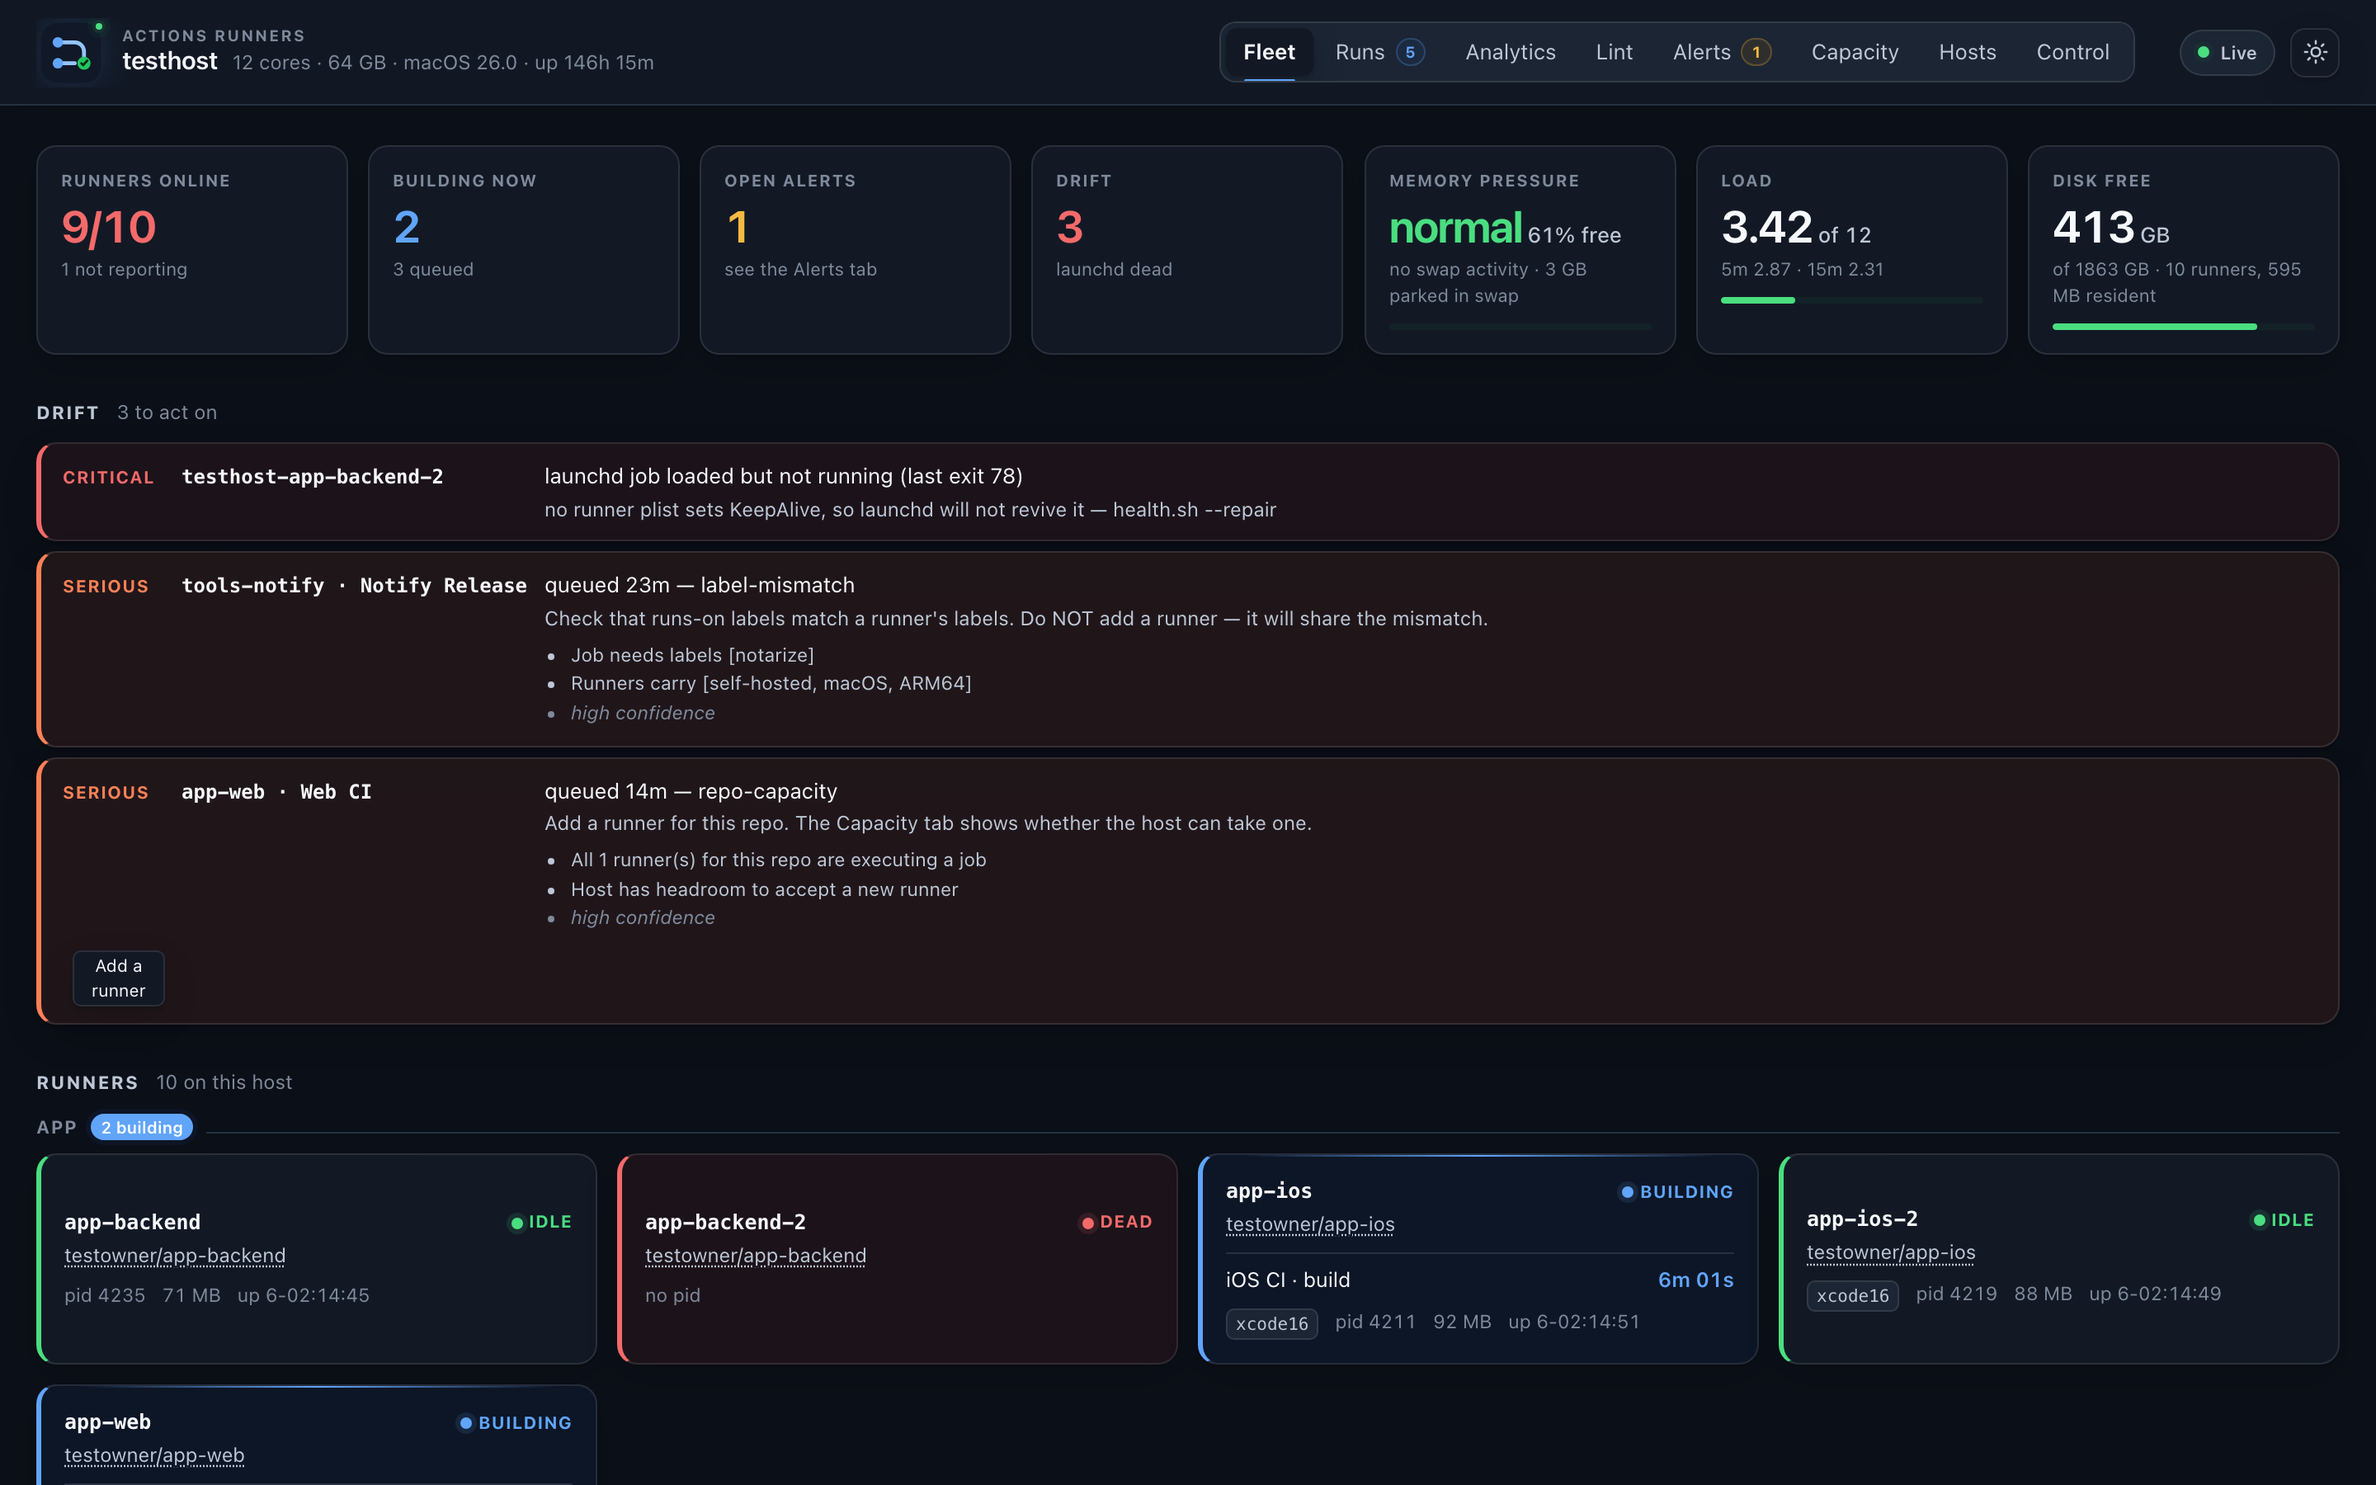
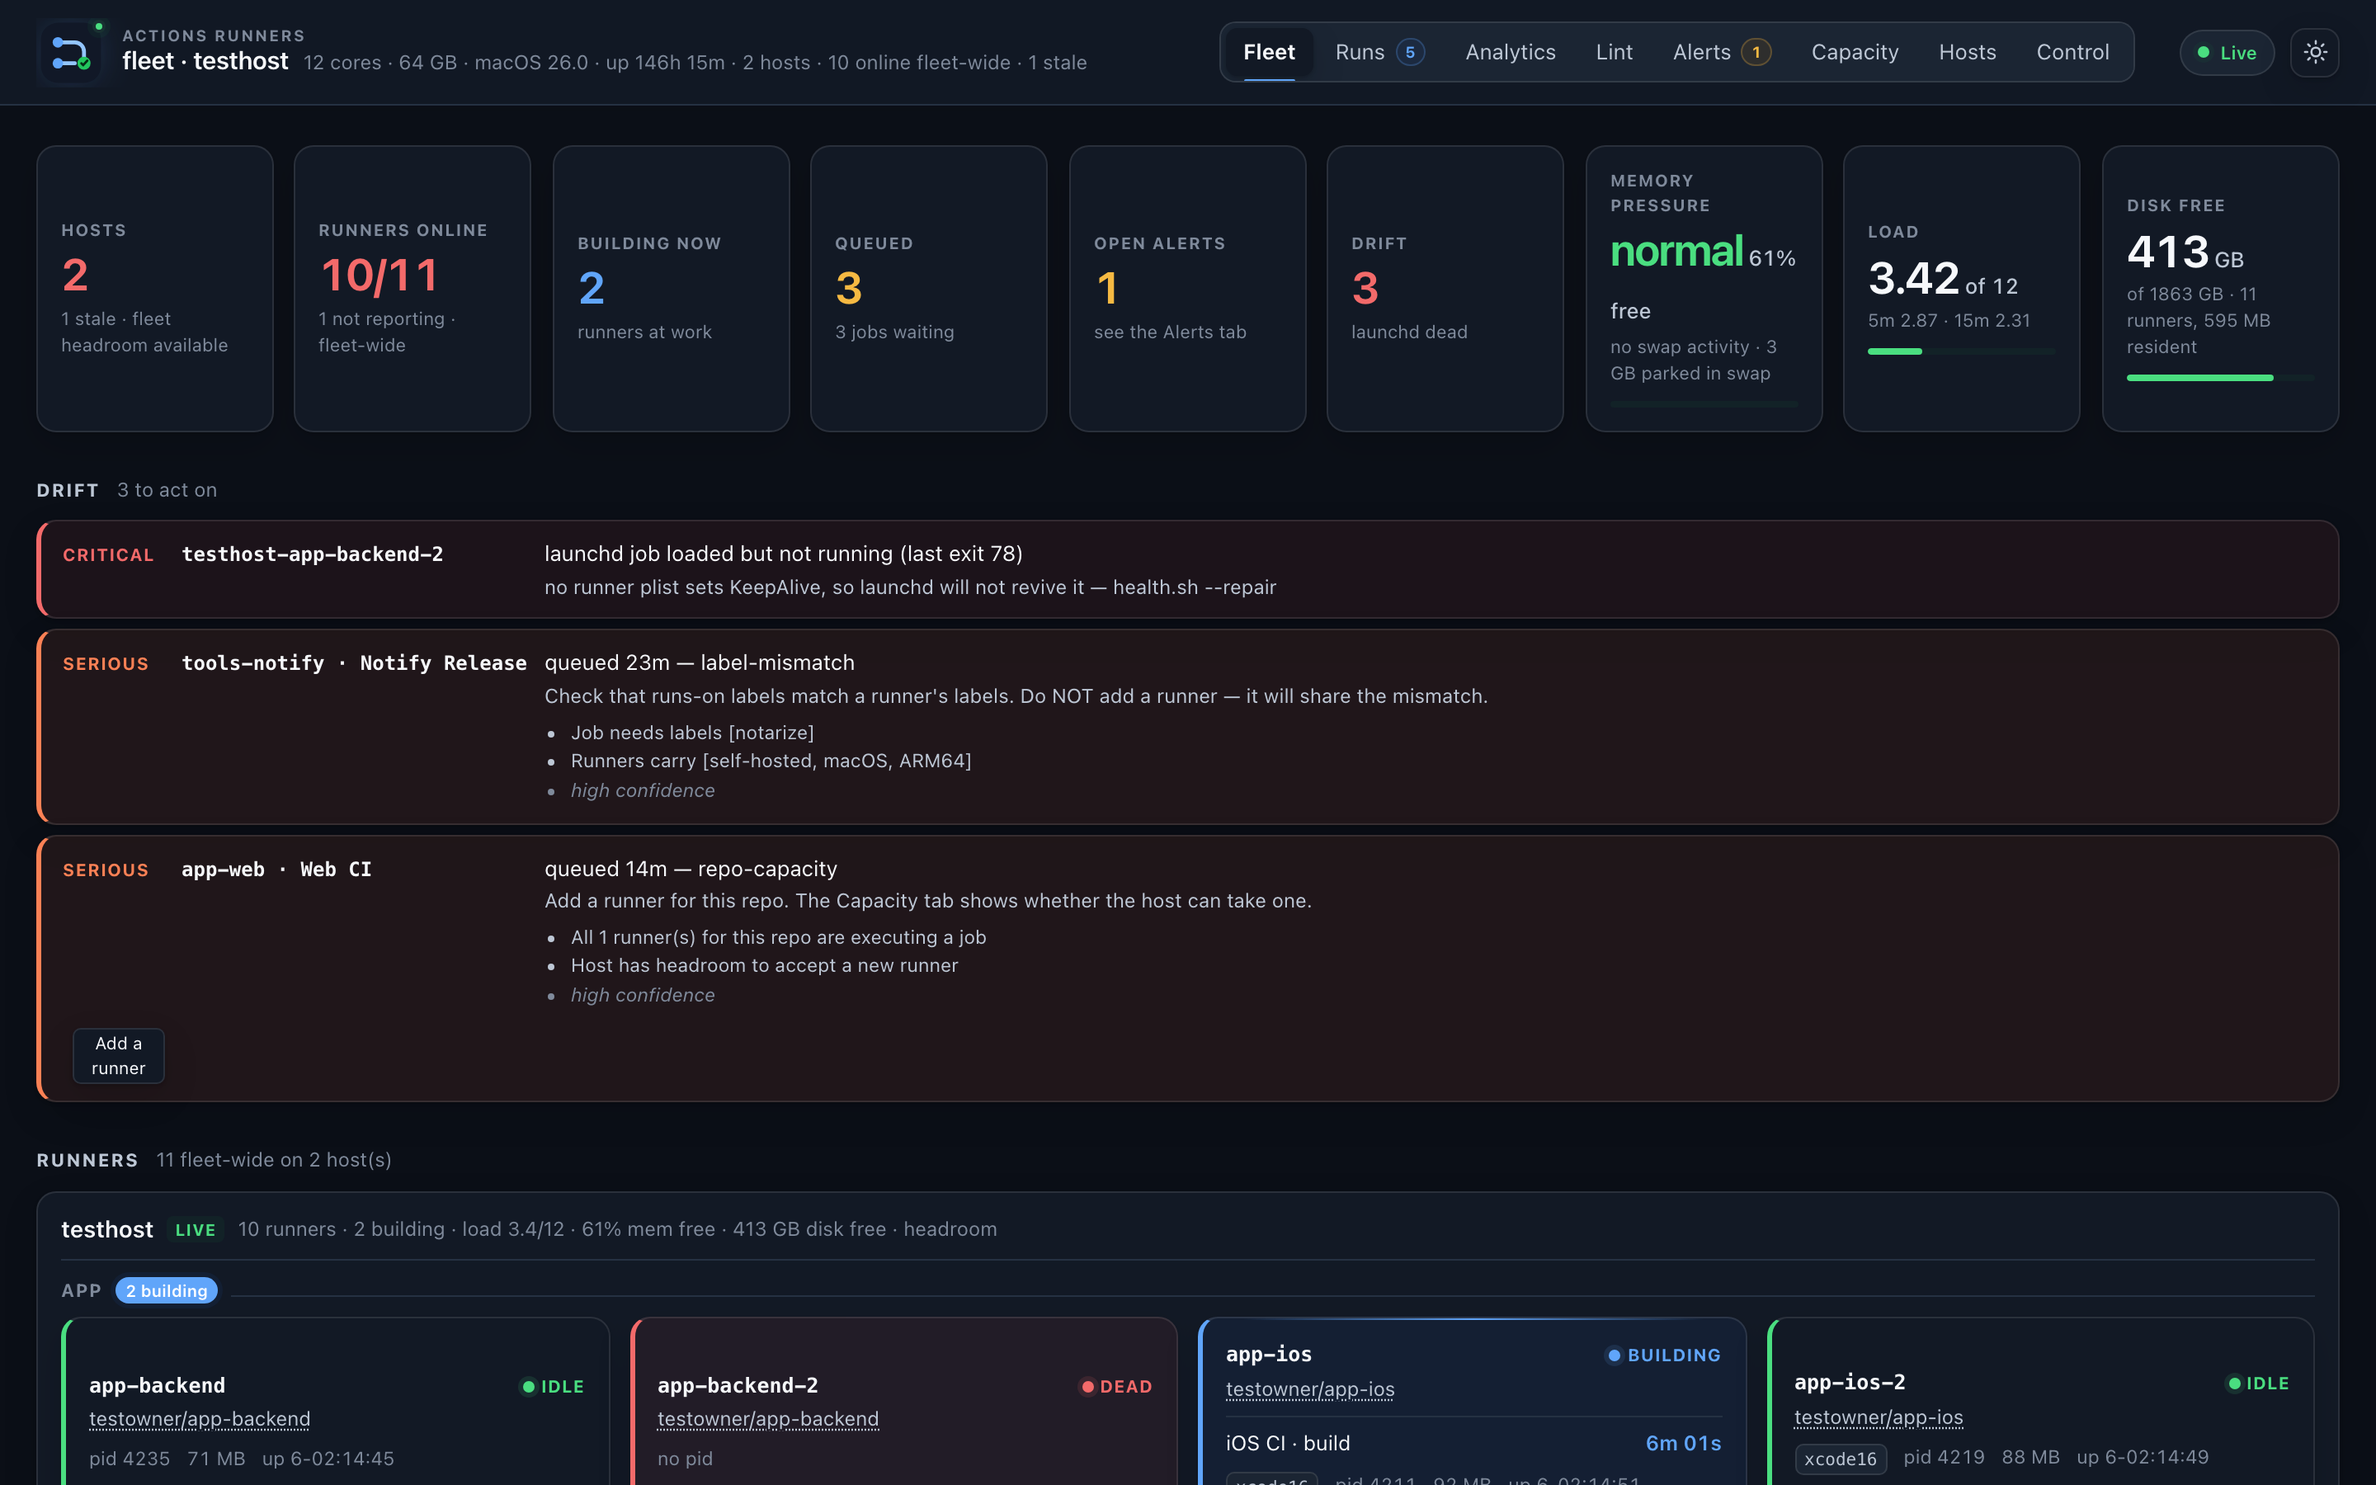
dashboard: Hosts tile replaces the federation strip; Fleet grid renders on a multi-host fleet (#69)
projectGroups() passed a snapshot it never received to runnerTile(), so every
federated render of the Fleet tab threw `s is not defined` before the host
blocks mounted. It now takes the snapshot. The Hosts KPI tile replaces the
federation strip, with docs, fixture and screenshot updated.

These edits were made on runner-host's checkout on 2026-10-09 (14:01-14:03
EDT) and never committed; carried over here so the host can deploy main.

diff --git a/dashboard/public/app.js b/dashboard/public/app.js
@@ -422,53 +422,6 @@ function remediationSection() {
 
 // ------------------------------------------------------------------- header
 
-function renderFederationSummary(s) {
-  const el = $('#federation-summary');
-  if (!el) return;
-  const fed = s.federation;
-  const controlPlane = s.control;
-  if (!fed?.enabled && !controlPlane?.enabled) {
-    el.classList.add('is-hidden');
-    el.setAttribute('aria-hidden', 'true');
-    mount(el);
-    return;
-  }
-  el.classList.remove('is-hidden');
-  el.setAttribute('aria-hidden', 'false');
-  const fleet = fed ?? {
-    totalHosts: 1, runnersOnline: (s.runners ?? []).filter((r) => r.ghStatus === 'online').length,
-    runnersBusy: (s.runners ?? []).filter((r) => r.ghBusy || r.workingLocally).length,
-    fleetCapacityOk: s.capacity?.ok, staleHosts: 0,
-  };
-  const cap = fleet.fleetCapacityOk ? 'fleet headroom available' : 'no fleet headroom now';
-  mount(el,
-    h('div', { class: 'federation-summary-inner', role: 'status' },
-      h('span', { class: 'fed-count', text: `${fleet.totalHosts} hosts` }),
-      controlPlane?.enabled
-        ? h('span', {
-            class: `flag ${controlPlane.role === 'leader' ? 'good' : 'warning'}`,
-            text: `${controlPlane.role} · ${controlPlane.replicaId}`,
-          })
-        : null,
-      h('span', { class: 'fed-sep', 'aria-hidden': 'true', text: '·' }),
-      h('span', { class: 'fed-count', text: `${fleet.runnersOnline} runners online` }),
-      h('span', { class: 'fed-sep', 'aria-hidden': 'true', text: '·' }),
-      h('span', { class: 'fed-count', text: `${fleet.runnersBusy} building` }),
-      h('span', { class: 'fed-sep', 'aria-hidden': 'true', text: '·' }),
-      h('span', { class: `fed-cap ${fleet.fleetCapacityOk ? 'good' : 'warn'}`, text: cap }),
-      fleet.staleHosts
-        ? h('span', { class: 'fed-stale flag critical', text: `${fleet.staleHosts} stale host${fleet.staleHosts === 1 ? '' : 's'}` })
-        : null,
-      h('button', {
-        class: 'btn tiny',
-        text: 'Hosts',
-        'aria-label': 'Open the Hosts tab for federation details',
-        onclick: () => setView('hosts'),
-      })
-    )
-  );
-}
-
 // Access banner — shown to non-local viewers until they have a device token
 function renderAccessBanner() {
   const existing = $('#access-banner');
@@ -520,6 +473,7 @@ function renderHeader(s) {
     parts.push(`${fed.totalHosts} host${fed.totalHosts === 1 ? '' : 's'} · ${fed.runnersOnline} online fleet-wide`);
     if (fed.staleHosts) parts.push(`${fed.staleHosts} stale`);
   }
+  if (s.control?.enabled) parts.push(`${s.control.role} · ${s.control.replicaId}`);
   $('#host-meta').textContent = parts.join(' · ');
 
   const badge = (selector, count, label) => {
@@ -567,7 +521,22 @@ function renderKpis(s) {
   const diskFrac = host.diskTotalGb ? 1 - host.diskFreeGb / host.diskTotalGb : 0;
   const loadFrac = host.cores ? host.load1 / host.cores : 0;
 
+  const showHosts = federated || Boolean(s.control?.enabled);
+  const totalHosts = s.federation?.totalHosts ?? 1;
+  const staleHosts = s.federation?.staleHosts ?? 0;
+  const fleetCapacityOk = s.federation?.fleetCapacityOk ?? s.capacity?.ok;
+
   mount($('#kpis'),
+    showHosts
+      ? statTile({
+          label: 'Hosts',
+          value: totalHosts,
+          sub: `${staleHosts ? `${staleHosts} stale` : 'all reporting'} · `
+            + (fleetCapacityOk ? 'fleet headroom available' : 'no fleet headroom now'),
+          tone: staleHosts ? 'critical' : fleetCapacityOk ? 'good' : 'warning',
+          onclick: kpiNav('hosts'),
+        })
+      : null,
     statTile({
       label: 'Runners online',
       value: allUnread ? '—' : registered.length ? `${online}/${registered.length}` : '—',
@@ -770,7 +739,7 @@ function runnerTile(s, r, { showHost = false } = {}) {
   );
 }
 
-function projectGroups(runners, order) {
+function projectGroups(s, runners, order) {
   const groups = new Map();
   for (const r of runners) {
     const project = r.project ?? 'other';
@@ -824,7 +793,7 @@ function hostSection(s, hostId, hostInfo, runners, summaries) {
       : null
   );
   return h('section', { class: 'host-block', id: `host-${hostId}` }, head,
-    ...projectGroups(runners, s.projects ?? ['other']));
+    ...projectGroups(s, runners, s.projects ?? ['other']));
 }
 
 // The fleet verdict (lib/verdict.js): one sentence and one next move, above
@@ -1578,7 +1547,6 @@ function render() {
   updateConnectionIndicator();
   renderHeader(snap);
   renderVerdictBanner(snap);
-  renderFederationSummary(snap);
   // The live KPI row and drift list belong to the operational tabs. Analytics
   // brings its own KPIs for the selected window; showing both stacks two
   // different meanings of "runs" on one screen.

diff --git a/dashboard/public/style.css b/dashboard/public/style.css
@@ -285,7 +285,7 @@ section { margin-bottom: 26px; }
 
 .kpis {
   display: grid; gap: 12px;
-  grid-template-columns: repeat(auto-fit, minmax(156px, 1fr));
+  grid-template-columns: repeat(auto-fit, minmax(132px, 1fr));
 }
 .kpi {
   position: relative; overflow: hidden;
@@ -319,6 +319,8 @@ button.kpi {
 .kpi:nth-child(5) { --enter-delay: 140ms; }
 .kpi:nth-child(6) { --enter-delay: 175ms; }
 .kpi:nth-child(7) { --enter-delay: 210ms; }
+.kpi:nth-child(8) { --enter-delay: 245ms; }
+.kpi:nth-child(9) { --enter-delay: 280ms; }
 .kpis.is-first-paint .kpi {
   animation: tile-enter 360ms cubic-bezier(.2, .7, .2, 1) both;
   animation-delay: var(--enter-delay, 0ms);
@@ -492,21 +494,6 @@ button.kpi {
 
 /* Hosts view. A stale host is dimmed and struck through at the name, because the
    one mistake this view must not allow is reading old state as current. */
-.federation-summary {
-  margin: 0 22px; padding: 8px 12px;
-  border: 1px solid var(--border); border-radius: var(--radius);
-  background: var(--surface-glass);
-}
-.federation-summary.is-hidden { display: none; }
-.federation-summary-inner {
-  display: flex; align-items: center; flex-wrap: wrap; gap: 8px 10px;
-  font-size: 12.5px;
-}
-.federation-summary .fed-sep { color: var(--muted); }
-.federation-summary .fed-cap.good { color: var(--good); font-weight: 600; }
-.federation-summary .fed-cap.warn { color: var(--warning); font-weight: 600; }
-.federation-summary .fed-stale { margin-left: auto; }
-
 .host-block {
   margin-bottom: 18px; padding: 12px 14px 4px;
   border: 1px solid var(--border); border-radius: var(--radius);

diff --git a/dashboard/test/ui-contract.test.js b/dashboard/test/ui-contract.test.js
@@ -136,12 +136,12 @@ describe('federation hosts UI contract', () => {
 });
 
 describe('multi-host fleet UI contract', () => {
-  test('federation summary bar and header use snapshot.federation', () => {
-    assert.match(html, /id="federation-summary"/);
-    assert.match(app, /function renderFederationSummary\(s\)/);
-    assert.match(app, /s\.federation/);
-    assert.match(app, /fleetCapacityOk/);
-    assert.match(css, /\.federation-summary/);
+  test('Hosts tile and header use snapshot.federation', () => {
+    assert.doesNotMatch(html, /id="federation-summary"/);
+    assert.match(app, /label: 'Hosts'/);
+    assert.match(app, /s\.federation\?\.staleHosts/);
+    assert.match(app, /s\.federation\?\.fleetCapacityOk/);
+    assert.match(app, /s\.control\?\.enabled\) parts\.push/);
   });
 
   test('fleet view groups host-first when federated', () => {
@@ -149,6 +149,10 @@ describe('multi-host fleet UI contract', () => {
     assert.match(app, /function hostSection\(/);
     assert.match(app, /s\.fleetRunners/);
     assert.match(app, /class: 'host-block'/);
+    // runnerTile needs the snapshot; the host-first path once called it from a
+    // function that never received one and threw on every federated render.
+    assert.match(app, /function projectGroups\(s, runners, order\)/);
+    assert.match(app, /projectGroups\(s, runners,/);
     assert.match(css, /\.host-block/);
   });
 

diff --git a/dashboard/test/kpi-nav.test.js b/dashboard/test/kpi-nav.test.js
@@ -75,8 +75,8 @@ describe('KPI card navigation contract', () => {
     assert.match(src, /s\.federation\?\.runnersBusy/);
   });
 
-  test('federation summary links to the Hosts tab', () => {
-    assert.match(src, /function renderFederationSummary\(s\)/);
-    assert.match(src, /onclick: \(\) => setView\('hosts'\)/);
+  test('Hosts → Hosts tab, shown only when federated or the control plane is on', () => {
+    assert.match(src, /label: 'Hosts'[\s\S]*?onclick: kpiNav\('hosts'\)/);
+    assert.match(src, /const showHosts = federated \|\| Boolean\(s\.control\?\.enabled\)/);
   });
 });

diff --git a/dashboard/public/index.html b/dashboard/public/index.html
@@ -53,7 +53,6 @@
 
 <main id="main-content" tabindex="-1">
   <section class="verdict-banner is-hidden" id="verdict-banner" aria-live="polite" aria-label="Fleet verdict"></section>
-  <section class="federation-summary is-hidden" id="federation-summary" aria-label="Fleet federation summary"></section>
   <section class="kpis" id="kpis" aria-label="Fleet overview"></section>
   <section id="drift"></section>
 

diff --git a/CHANGELOG.md b/CHANGELOG.md
@@ -145,6 +145,14 @@ Portable, mobile-first dashboard.
 
 ### Changed
 
+- **Hosts tile replaces the federation strip.** The one-line strip above the
+  summary tiles ("2 hosts · 110 runners online · 0 building · fleet headroom")
+  crowded the row below it and repeated two tiles. A **Hosts** tile now leads
+  the row when federation or the control plane is on: host count, stale hosts
+  and fleet headroom, red when a host is stale, and a click opens the Hosts
+  tab. The control-plane role and replica moved to the header line. Tiles
+  narrow to a 132px minimum so all nine still fit one row at 1440px. The docs
+  fixture fleet is now two hosts, so `fleet-tab.png` shows the tile.
 - **Automated agents stay off the operator's Waiting Board.** `register.sh`
   writes `WB_SKIP=1` into each new runner's `.env`, and `autofixctl.sh install`
   sets it for the bridge, so CI jobs and the Cursor SDK fix and escalation
@@ -198,6 +206,10 @@ Portable, mobile-first dashboard.
   the PR asks GitHub at once instead of after two minutes (short `--fresh`
   retries had exited "no runs seen" on a green PR).
 
+- **The Fleet tab's runner grid rendered nothing on a multi-host fleet.**
+  `projectGroups()` passed a snapshot it never received to `runnerTile()`, so
+  every federated render threw `s is not defined` before the host blocks
+  mounted. It now takes the snapshot.
 - Runners ran jobs with whatever PATH the shell that registered them had:
   `config.sh` copies the caller's `$PATH` into `.path`, and the runner gives
   jobs that, not `.env`'s. runner-host had six PATHs (17 runners with no

diff --git a/docs/dashboard.md b/docs/dashboard.md
@@ -18,18 +18,20 @@ For installation, see [Get started → Install the dashboard](getting-started.md
 
 ### Fleet
 
-![The Fleet tab: seven summary tiles across the top, three drift rows naming a dead LaunchAgent, a label mismatch and a repo at capacity, then every runner as a card grouped by project](img/fleet-tab.png)
+![The Fleet tab: nine summary tiles across the top led by Hosts, three drift rows naming a dead LaunchAgent, a label mismatch and a repo at capacity, then every runner as a card grouped by host and project](img/fleet-tab.png)
 
 The main view. Shows every registered runner grouped by project, with live
 status badges.
 
-**Summary tiles** — the eight cards across the top are live operational
-snapshots. Each is a button: clicking (or pressing Enter/Space) navigates
+**Summary tiles** — the cards across the top are live operational
+snapshots: eight on a single host, nine when federation or the control plane
+is on. Each is a button: clicking (or pressing Enter/Space) navigates
 directly to the most relevant tab and scrolls to the related section. No URL
 changes — navigation is in-app only.
 
 | Tile | Navigates to |
 |---|---|
+| Hosts (multi-host only) | Hosts |
 | Runners online | Fleet → runner grid |
 | Building now | Runs → active jobs |
 | Queued | Fleet → queued jobs |

diff --git a/docs/getting-started.md b/docs/getting-started.md
@@ -191,7 +191,7 @@ From the fleet root, confirm the host agrees with GitHub:
 Then open the dashboard's **Fleet** tab. Your runners appear within one polling
 interval — 15 seconds while anything is building, 45 seconds at rest.
 
-![The Fleet tab showing the registered runners grouped by project, each with a status badge, and the drift count at zero](img/fleet-tab.png)
+![The Fleet tab showing the registered runners grouped by host and project, each with a status badge, under the summary tiles and drift list](img/fleet-tab.png)
 
 > A fixture fleet, not a real one — every repository name in these screenshots
 > is invented. Yours will show the one runner you just registered.
